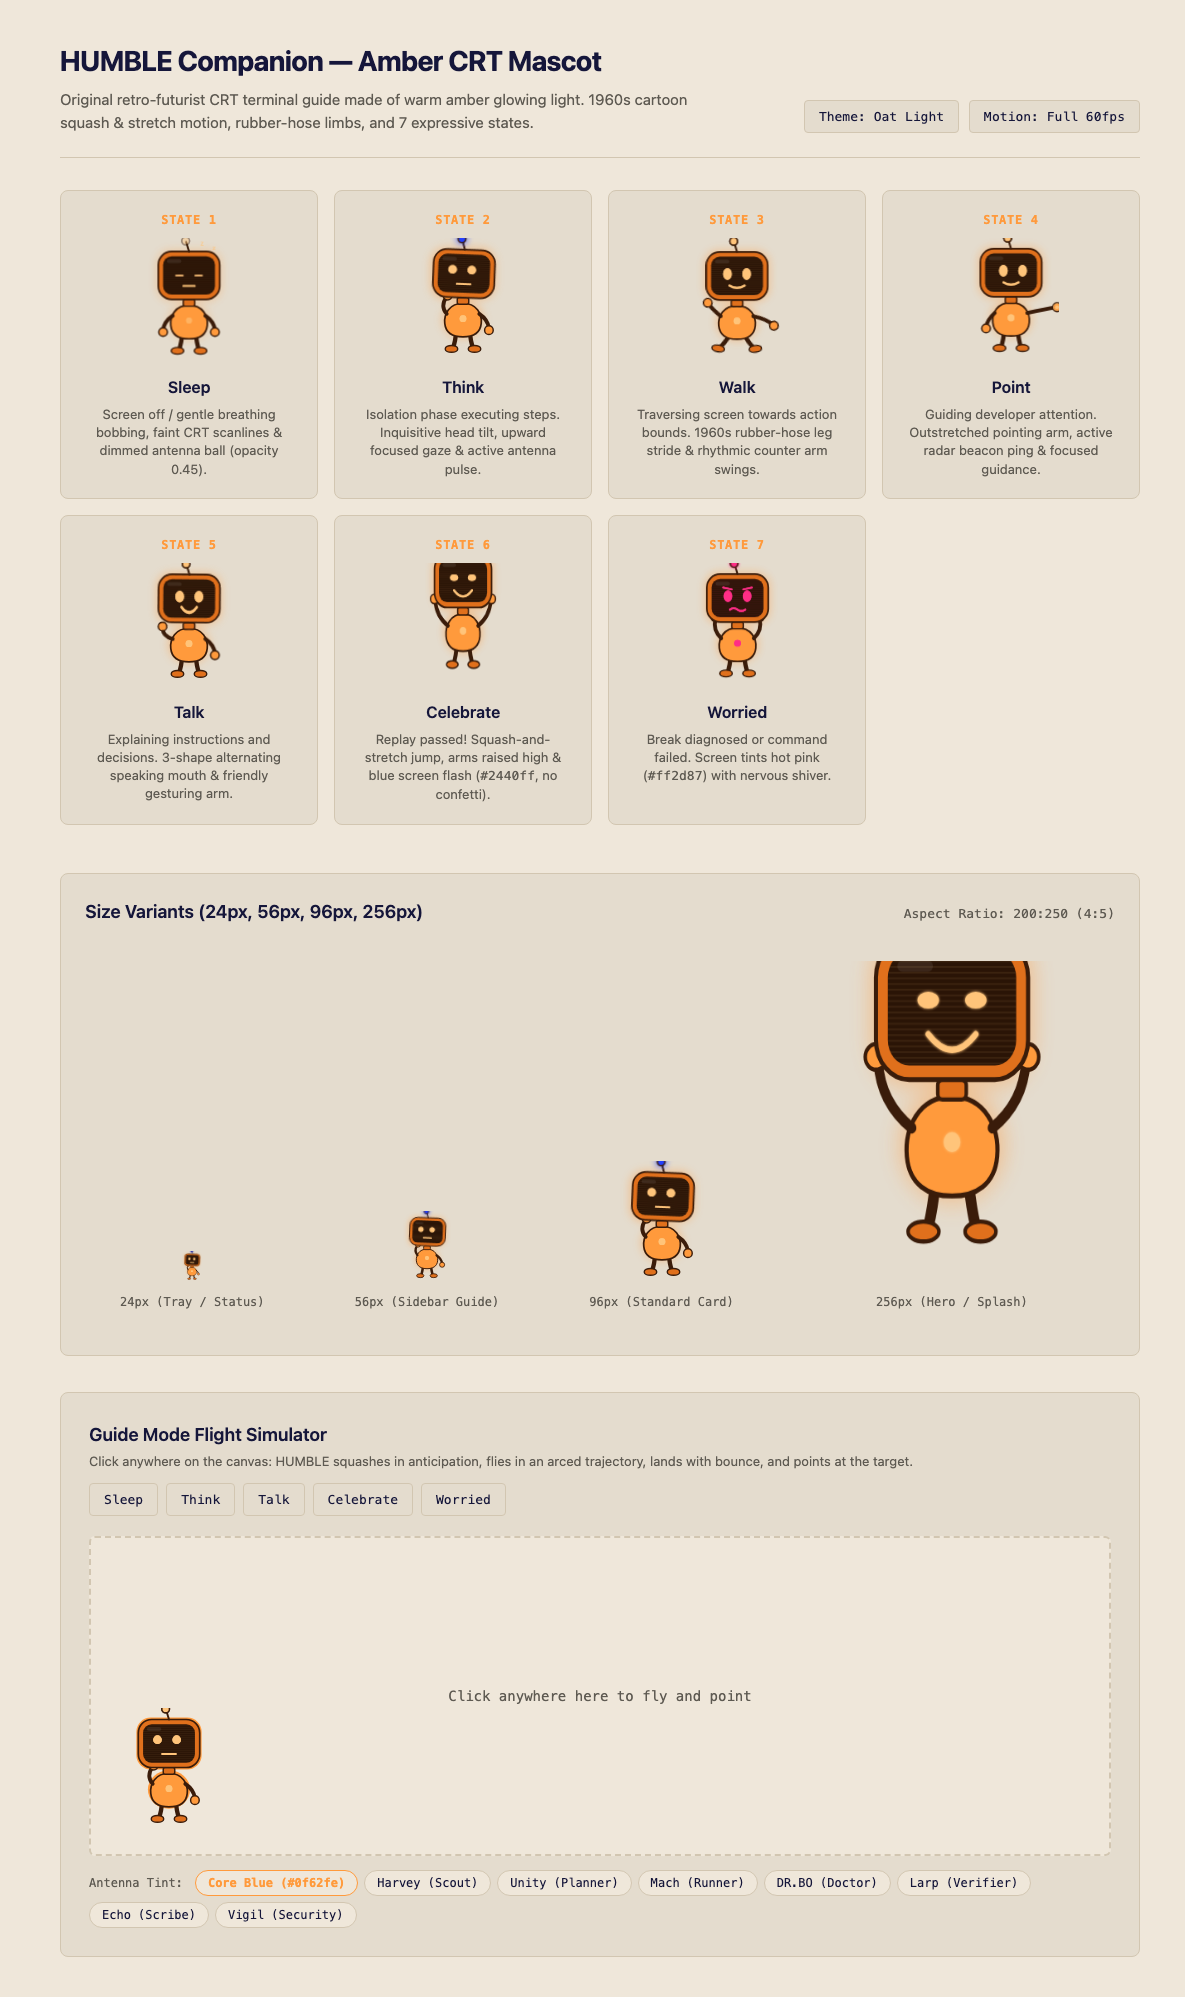
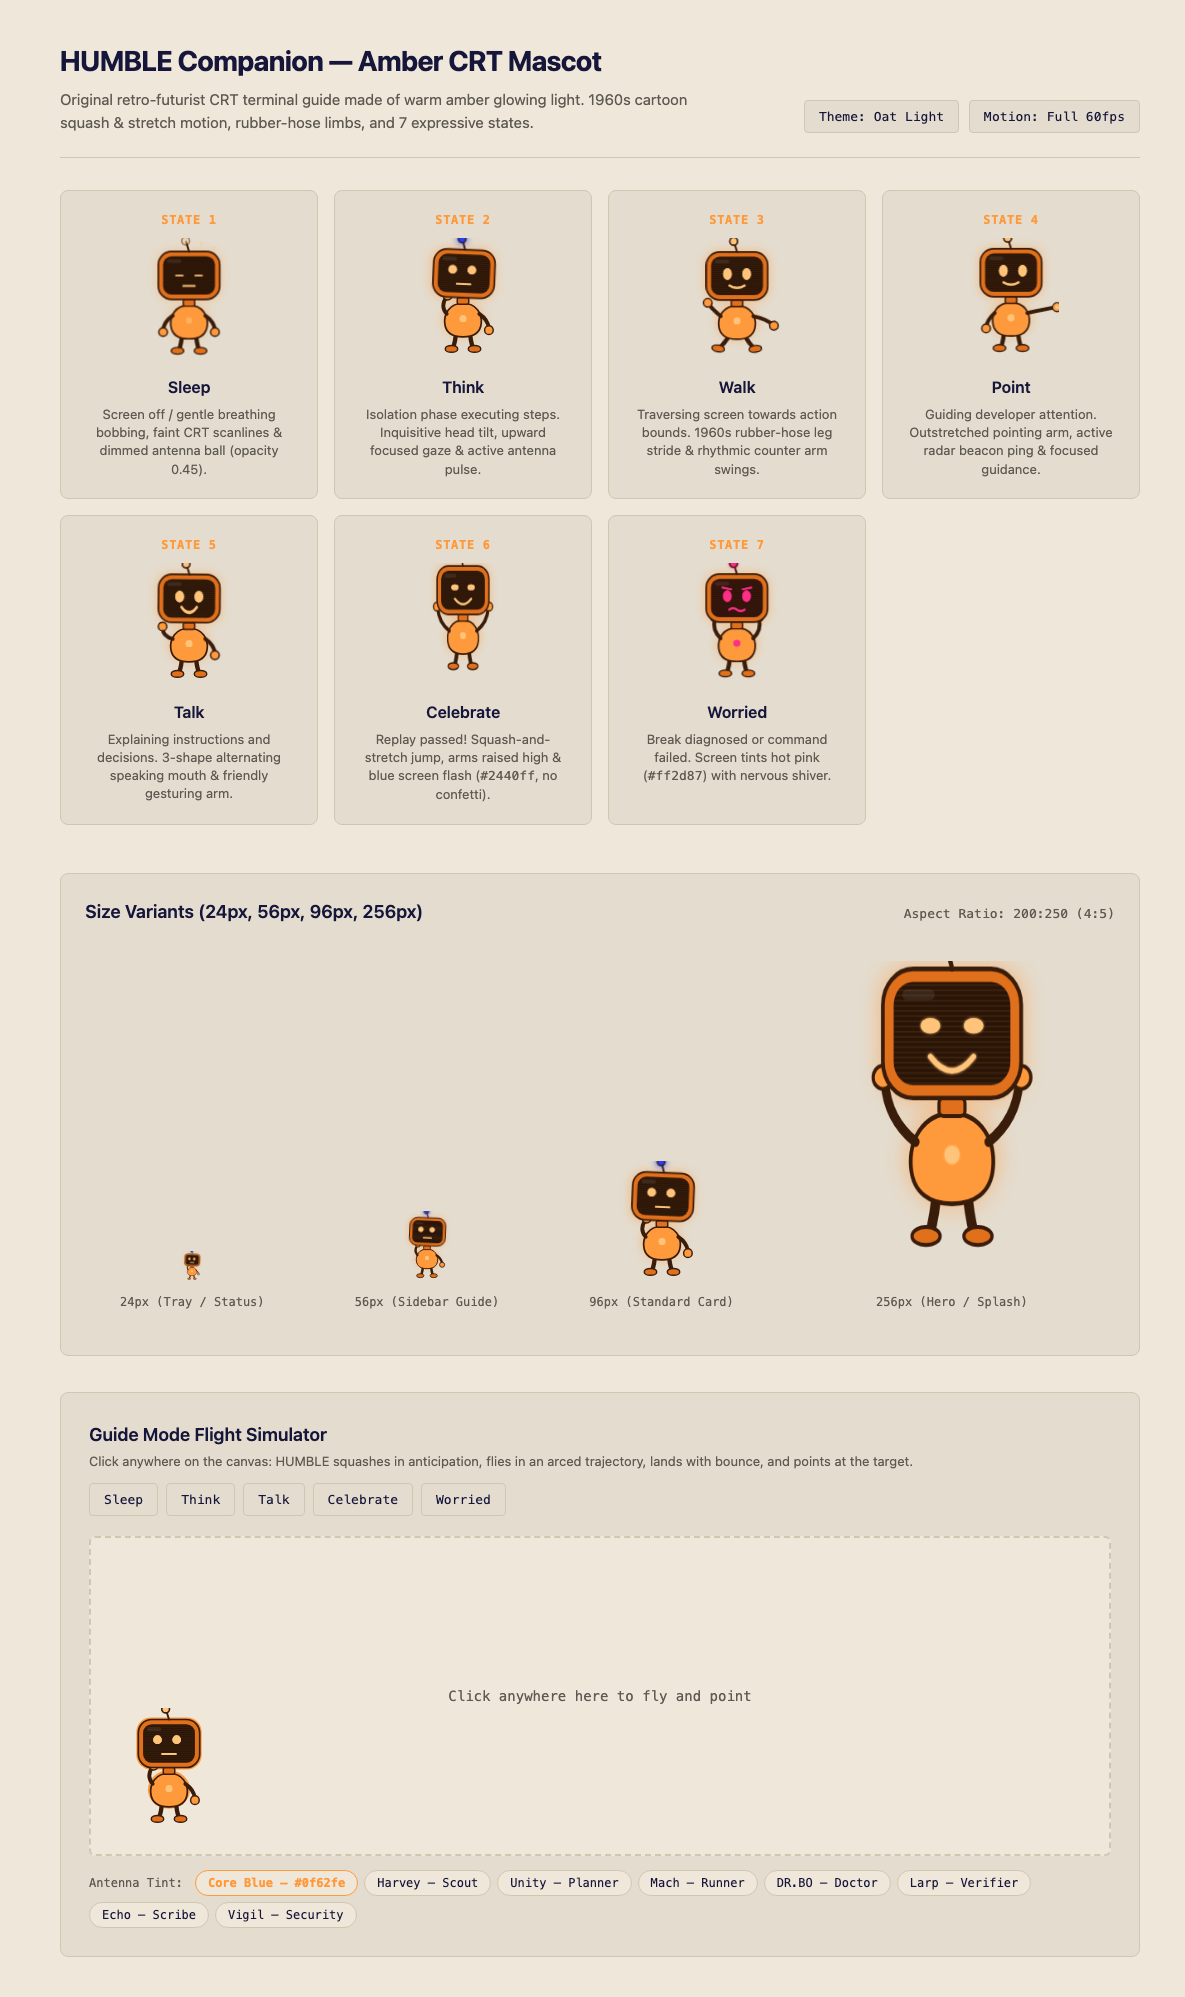
fix(lens): speech bubble radius 2px, celebrate headroom, and em dash pill labels (#158)

diff --git a/lens/humble/showcase.html b/lens/humble/showcase.html
@@ -338,14 +338,14 @@
 
     <div class="agent-selector">
       <span style="font-size: 12px; font-family: var(--mono); color: var(--muted); margin-right: 6px;">Antenna Tint:</span>
-      <button class="agent-pill active" onclick="setAgent('default', this)">Core Blue (#0f62fe)</button>
-      <button class="agent-pill" onclick="setAgent('harvey', this)">Harvey (Scout)</button>
-      <button class="agent-pill" onclick="setAgent('unity', this)">Unity (Planner)</button>
-      <button class="agent-pill" onclick="setAgent('mach', this)">Mach (Runner)</button>
-      <button class="agent-pill" onclick="setAgent('drbo', this)">DR.BO (Doctor)</button>
-      <button class="agent-pill" onclick="setAgent('larp', this)">Larp (Verifier)</button>
-      <button class="agent-pill" onclick="setAgent('echo', this)">Echo (Scribe)</button>
-      <button class="agent-pill" onclick="setAgent('vigil', this)">Vigil (Security)</button>
+      <button class="agent-pill active" onclick="setAgent('default', this)">Core Blue — #0f62fe</button>
+      <button class="agent-pill" onclick="setAgent('harvey', this)">Harvey — Scout</button>
+      <button class="agent-pill" onclick="setAgent('unity', this)">Unity — Planner</button>
+      <button class="agent-pill" onclick="setAgent('mach', this)">Mach — Runner</button>
+      <button class="agent-pill" onclick="setAgent('drbo', this)">DR.BO — Doctor</button>
+      <button class="agent-pill" onclick="setAgent('larp', this)">Larp — Verifier</button>
+      <button class="agent-pill" onclick="setAgent('echo', this)">Echo — Scribe</button>
+      <button class="agent-pill" onclick="setAgent('vigil', this)">Vigil — Security</button>
     </div>
   </div>
 </div>

diff --git a/test/humble-robot.test.js b/test/humble-robot.test.js
@@ -42,7 +42,7 @@ test('HUMBLE Robot: all 7 standalone SVG sprite files exist and contain valid CR
     assert.ok(fs.existsSync(file), `Missing SVG file: ${file}`);
     const content = fs.readFileSync(file, 'utf8');
     assert.ok(content.startsWith('<svg'), `${state}.svg does not start with <svg`);
-    assert.ok(content.includes('viewBox="0 0 200 250"'), `${state}.svg missing viewBox="0 0 200 250"`);
+    assert.ok(/viewBox="0 (-25|0) 200 (250|275)"/.test(content), `${state}.svg missing or invalid viewBox`);
     assert.ok(content.includes(`humble-robot-${state}`), `${state}.svg missing class humble-robot-${state}`);
   }
 });

diff --git a/lens/humble/robot.css b/lens/humble/robot.css
@@ -338,11 +338,11 @@
   font-weight: 500;
   line-height: 1.4;
   padding: 8px 14px;
-  border-radius: 6px;
+  border-radius: 2px;
   white-space: nowrap;
   opacity: 0;
   pointer-events: none;
-  box-shadow: 0 4px 16px rgba(58, 28, 10, 0.25);
+  box-shadow: none;
   border: 1px solid var(--robot-core);
   transition: opacity 0.2s var(--hb-ease-out), transform 0.2s var(--hb-ease-out);
   z-index: 100;
